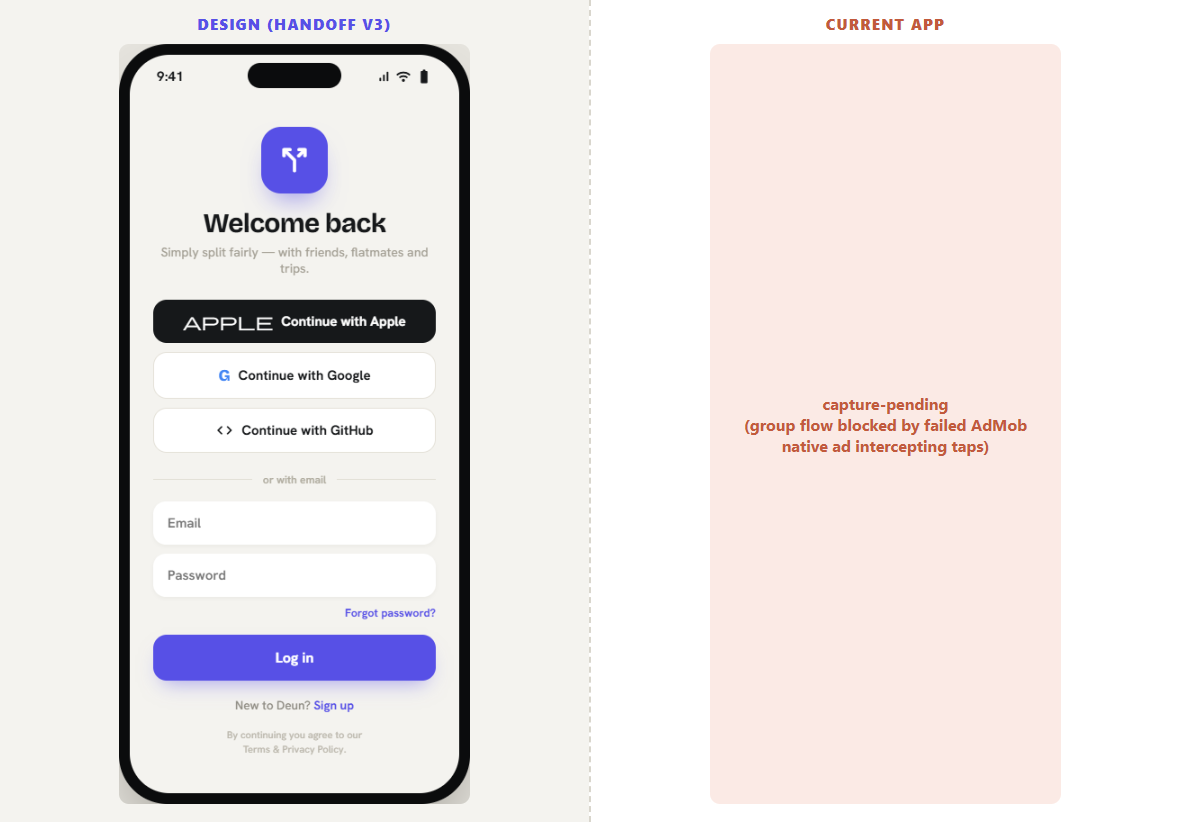
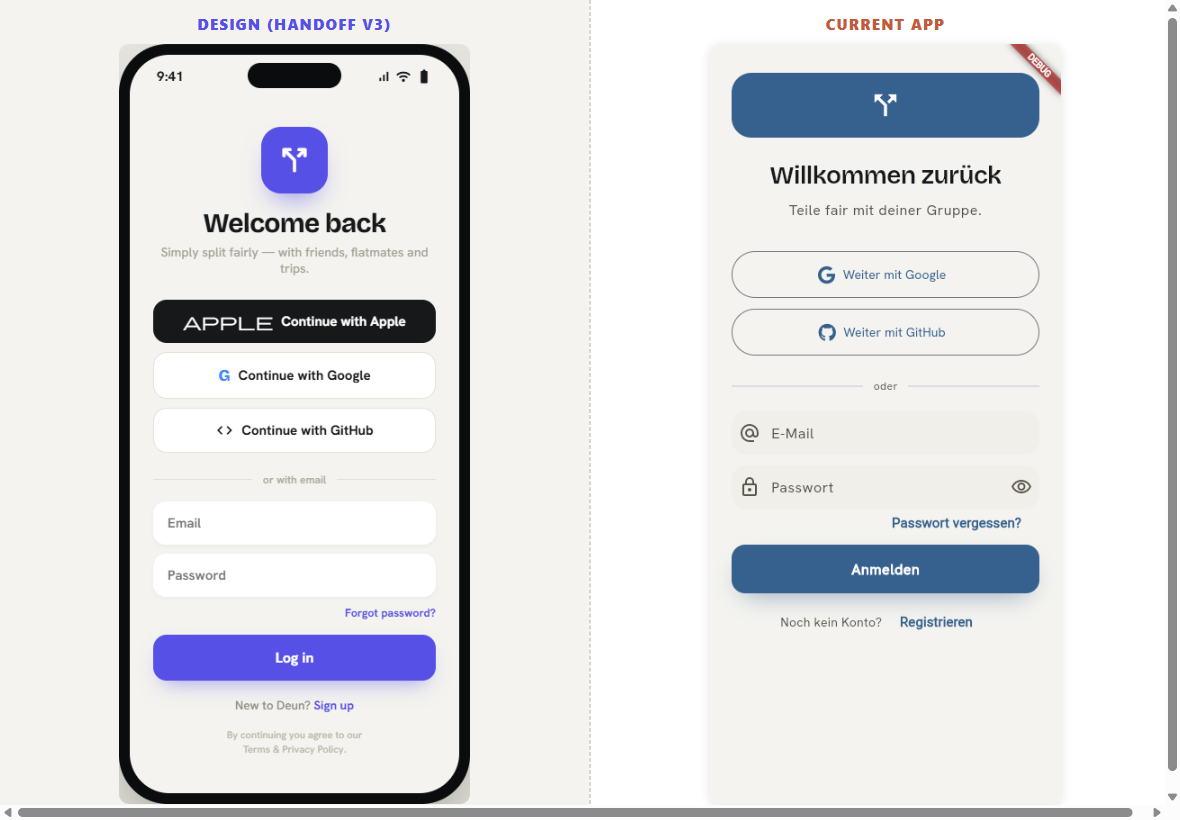
docs(design-audit): AUDIT round 3 (Chrome/web) — Login audited, +4 findings; rest blocked on web auth
Chrome/Playwright capture works (pointer events drive Flutter web; adb-tap blocker
gone). Login captured pre-auth → F35 (wrong brand seed 🔥), F36 (no reset screen ⚠️),
F37 (social button style ⚠️), F38 (missing legal footer 💅). The other 12 screens
need a signed-in storageState at tools/.web-auth.json to capture.

diff --git a/docs/design_audit/README.md b/docs/design_audit/README.md
@@ -20,8 +20,8 @@ Settle up · Invite · **Tap to Claim** · Login · Reset password · Onboarding
 
 ---
 
-## Loop status — ⏸ STOPPED (2026-06-26)
-2 AUDIT rounds + 17 FIX iterations. **15 findings fixed** (F01–F12, F14, F15, F16, F30, F32, F33), **3 blocked** (F13 false-positive, F31/F34 out-of-scope), **13 screens capture-pending** (F17–F29). The loop is **not idle by choice**: the 13 pending screens are blocked by a **device/harness limitation** — `adb input tap` does not trigger this app's Flutter gesture callbacks on R5CY22DR0FK (confirmed across both audits, 3 input methods each), so the whole group flow + auth screens are unreachable by the capture tooling. Resolving that (a tappable capture path) is the prerequisite to auditing the rest. All 5 reachable screens (Groups home, Friends, Settings, QR, Add friend) were re-verified against v3 on a fresh APK and match. Suite green on clean build: **727 passing**.
+## Loop status — ▶ ACTIVE (round 3, 2026-06-26)
+3 AUDIT rounds + 17 FIX iterations. **15 fixed** (F01–F12, F14, F15, F16, F30, F32, F33), **3 blocked** (F13 false-positive, F31/F34 out-of-scope), **4 new open Login findings** (F35🔥 F36⚠️ F37⚠️ F38💅), **12 screens capture-pending** (F17–F26, F29). Round 3 switched app capture to **Chrome/Flutter-web via Playwright** — confirmed working (pointer events drive Flutter; the old adb-tap blocker is GONE). Login (the one pre-auth screen) is now audited → F35–F38. The remaining 12 screens are blocked only by **web auth**: drop a signed-in Playwright `storageState` at `tools/.web-auth.json` (or give the harness dev creds) and one more AUDIT finishes them. Suite green on clean build: **727 passing**.
 
 ## Findings
 
@@ -56,18 +56,23 @@ Settle up · Invite · **Tap to Claim** · Login · Reset password · Onboarding
 - [x] F15 · Add friend · Header has no trailing QR action; v3 "Add friends" header carries a trailing qr_code_2 button 💅 — lib/pages/friends/presentation/friend_add_page.dart (header) — target: add trailing qr_code_2 38×38 action — ev: compare/compare_add_friend.png ✅ db277fb (DeunHeader trailing HeaderIconButton → /friend/qr)
 - [x] F16 · Add friend · Custom header title not centered between symmetric 38×38 slots (sits left, near back arrow) 💅 — lib/pages/friends/presentation/friend_add_page.dart (header) — target: centered title, equal leading/trailing slots per COMPONENTS.md §2 — ev: compare/compare_add_friend.png ✅ db277fb (symmetric DeunHeader slots center the title)
 
-### Capture-pending (not yet auditable — re-audit after F01 unblocks the group flow)
-These screens could not be reached this pass (most are gated behind the tap-blocked Groups home, F01). They are NOT fixable items yet; a later AUDIT re-captures them once F01 lands.
-- F17 · Group detail — group cards untappable (F01), no adb deep-link possible (route needs in-process Group via state.extra, navigation.dart:114) — ev: compare/compare_group_detail.png ⏳ capture-pending
-- F18 · New/Edit group — reachable only via "+ Neu"/FAB on the tap-blocked home (F01) — ev: compare/compare_group_form.png ⏳ capture-pending
-- F19 · Group statistics — reached from group detail, blocked by F01 — ev: compare/compare_group_stats.png ⏳ capture-pending
-- F20 · Personal statistics — reached via Settings → Your statistics; stats-row tap lands in the same Flutter content layer; not captured this pass — ev: compare/compare_personal_stats.png ⏳ capture-pending
-- F21 · Expense detail — reached from group detail ledger, blocked by F01 — ev: compare/compare_expense_detail.png ⏳ capture-pending
-- F22 · Expense editor (quick) — reached via Add-expense FAB in group detail, blocked by F01 — ev: compare/compare_expense_quick.png ⏳ capture-pending
-- F23 · Expense editor (itemized) — reached via editor segmented control in group detail, blocked by F01 — ev: compare/compare_expense_itemized.png ⏳ capture-pending
-- F24 · Settle up — reached from group-detail hero "Settle up", blocked by F01 — ev: compare/compare_settle_up.png ⏳ capture-pending
-- F25 · Invite — reached from group-detail quick action, blocked by F01 — ev: compare/compare_invite.png ⏳ capture-pending
-- F26 · Tap to Claim — reached from an itemized expense in group detail, blocked by F01 — ev: compare/compare_claim.png ⏳ capture-pending
-- F27 · Login — requires sign-out from Settings, which routes back through the tap-blocked home shell; not captured this pass — ev: compare/compare_login.png ⏳ capture-pending
-- F28 · Reset password — reached from Login (F27) — ev: compare/compare_reset.png ⏳ capture-pending
-- F29 · Onboarding — reached via signup/social from Login (F27) — ev: compare/compare_onboarding.png ⏳ capture-pending
+### Login / Auth
+Captured via the new Chrome/web path (AUDIT round 3) — this is the one screen reachable pre-auth.
+- [ ] F35 · Login · Entire pre-auth surface (logo tile, "Anmelden" primary button, links) renders brand BLUE not indigo #5750E6 — DeunApp seeds theme with ColorSeed.blue.color while the main app uses kBrandSeed indigo 🔥 — lib/widgets/deun_app.dart:28-29 — target: getThemeData(context, kBrandSeed, …) for both theme/darkTheme (matches navigation.dart:609) — ev: compare/compare_login.png (resolves F27)
+- [ ] F36 · Reset password · App has NO dedicated reset screen; "Passwort vergessen?" is an inline link + snackbar on Login, whereas v3 is a full screen (back arrow, "Reset your password" title, subtitle, Email field, "Send reset link" button) ⚠️ — lib/pages/auth/sign_in.dart:140 (_recoverPassword) — target: dedicated reset-password screen per design_18 — ev: compare/compare_login.png (resolves F28)
+- [ ] F37 · Login · Social buttons are uniform M3 outlined pills with centered indigo-tinted labels; v3 Google/GitHub are white filled cards with brand-colored icon + black bold left-aligned label ⚠️ — lib/pages/auth/social_auth_buttons.dart — target: white card, 1px border, leading brand icon, left-aligned ink-bold label per design_17 — ev: compare/compare_login.png
+- [ ] F38 · Login · Missing "By continuing you agree to our Terms & Privacy Policy." footer that v3 shows under the primary CTA 💅 — lib/pages/auth/sign_in.dart (below SocialAuthButtons/primary button) — target: add terms/privacy legal microcopy footer — ev: compare/compare_login.png
+
+### Capture-pending (blocked on web AUTH — provide a signed-in session to finish)
+The Chrome/web capture path WORKS (Playwright pointer events drive Flutter web; the old adb-tap blocker is gone). These 12 screens are now gated only by **authentication**: the live backend is self-hosted (`api.deun.app`), there's no saved session, email/password creds aren't available to the harness, and social login is OAuth-redirect (non-automatable headlessly). **To finish: drop a valid signed-in Playwright `storageState` at `docs/design_audit/tools/.web-auth.json` (or give the harness a dev email+password).** Then one AUDIT round captures all of these.
+- F17 · Group detail — web auth blocked; /group routes 404 without a session — ev: compare/compare_group_detail.png ⏳ capture-pending
+- F18 · New/Edit group — web auth blocked; reached from authed Groups home — ev: compare/compare_group_form.png ⏳ capture-pending
+- F19 · Group statistics — web auth blocked; reached from group detail — ev: compare/compare_group_stats.png ⏳ capture-pending
+- F20 · Personal statistics — web auth blocked; reached via Settings → statistics — ev: compare/compare_personal_stats.png ⏳ capture-pending
+- F21 · Expense detail — web auth blocked; reached from group-detail ledger — ev: compare/compare_expense_detail.png ⏳ capture-pending
+- F22 · Expense editor (quick) — web auth blocked; reached from group-detail FAB — ev: compare/compare_expense_quick.png ⏳ capture-pending
+- F23 · Expense editor (itemized) — web auth blocked; reached from expense editor — ev: compare/compare_expense_itemized.png ⏳ capture-pending
+- F24 · Settle up — web auth blocked; reached from group-detail hero — ev: compare/compare_settle_up.png ⏳ capture-pending
+- F25 · Invite — web auth blocked; reached from group-detail quick action — ev: compare/compare_invite.png ⏳ capture-pending
+- F26 · Tap to Claim — web auth blocked; reached from itemized expense — ev: compare/compare_claim.png ⏳ capture-pending
+- F29 · Onboarding — web auth blocked; AuthGate gates it behind sign-in + needsOnboarding — ev: compare/compare_onboarding.png ⏳ capture-pending